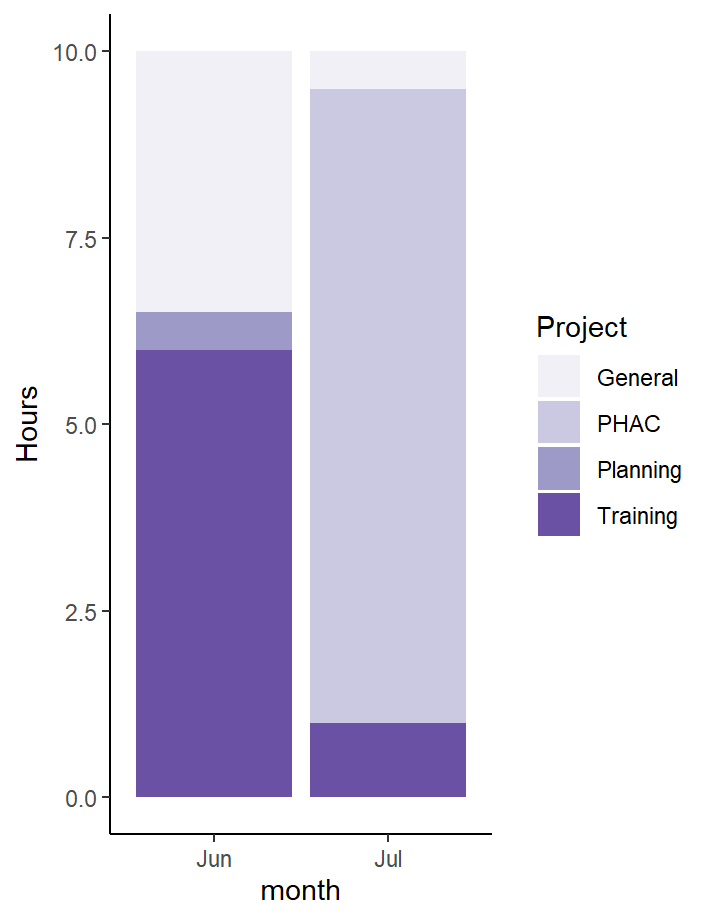
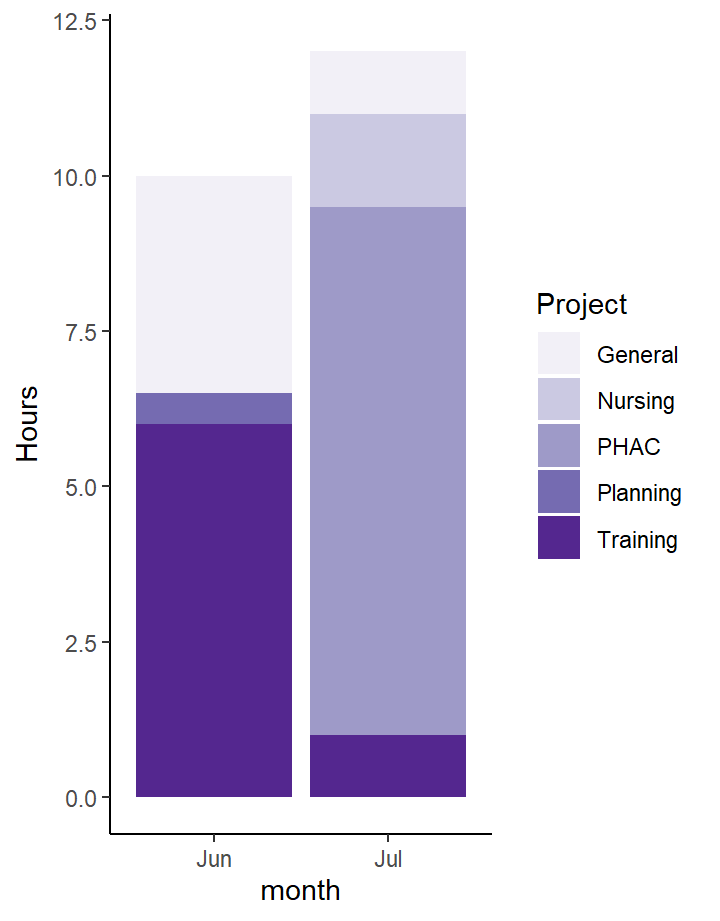
mon

diff --git a/docs/index.html b/docs/index.html
@@ -179,6 +179,7 @@ html, body {
 <img class="mobile-figure" data-mobile-figure-id=fig2 src="index_files/figure-html/unnamed-chunk-2-1.mb.png" />
 <img class="mobile-figure" data-mobile-figure-id=fig3 src="index_files/figure-html/unnamed-chunk-4-1.mb.png" />
 <img class="mobile-figure" data-mobile-figure-id=fig4 src="index_files/figure-html/unnamed-chunk-5-1.mb.png" />
+<img class="mobile-figure" data-mobile-figure-id=fig5 src="index_files/figure-html/unnamed-chunk-6-1.mb.png" />
 <script type="text/javascript">
 
 
@@ -1889,13 +1890,13 @@ class="section level3">
 <div class="knitr-options" data-fig-width="576" data-fig-height="460">
 
 </div>
-<table style="width:100%;">
+<table>
 <colgroup>
-<col width="6%" />
-<col width="6%" />
+<col width="7%" />
+<col width="8%" />
+<col width="5%" />
+<col width="75%" />
 <col width="4%" />
-<col width="79%" />
-<col width="3%" />
 </colgroup>
 <thead>
 <tr class="header">
@@ -1908,43 +1909,20 @@ class="section level3">
 </thead>
 <tbody>
 <tr class="odd">
-<td align="left">2024-07-02</td>
-<td align="left">Tuesday</td>
-<td align="left">Training</td>
-<td align="left">Responsible Conduct of Research - Second half</td>
-<td align="right">1.0</td>
-</tr>
-<tr class="even">
-<td align="left">2024-07-02</td>
-<td align="left">Tuesday</td>
+<td align="left">2024-07-08</td>
+<td align="left">Monday</td>
 <td align="left">General</td>
-<td align="left">Upload Certificates to ReDA, emails</td>
+<td align="left">Improving time tracking to show ALL historical tasks
+listed specifically + Total time on each project category.</td>
 <td align="right">0.5</td>
 </tr>
-<tr class="odd">
-<td align="left">2024-07-03</td>
-<td align="left">Wednesday</td>
-<td align="left">PHAC</td>
-<td align="left">Reading grant, sourcing REB docs, sourcing &amp;
-organizing refs in manager, making notes.</td>
-<td align="right">3.0</td>
-</tr>
 <tr class="even">
-<td align="left">2024-07-05</td>
-<td align="left">Friday</td>
-<td align="left">PHAC</td>
-<td align="left">Reading papers, learning about the CTAS and ICD codes,
-making notes.</td>
-<td align="right">3.0</td>
-</tr>
-<tr class="odd">
-<td align="left">2024-07-05</td>
-<td align="left">Friday</td>
-<td align="left">PHAC</td>
-<td align="left">Reading and assessing field-specific standards for data
-visualizatioin. Work on code based approach to generate APA-formatted
-tables through R.</td>
-<td align="right">2.5</td>
+<td align="left">2024-07-08</td>
+<td align="left">Monday</td>
+<td align="left">Nursing</td>
+<td align="left">Reading WeRPN + Lawson Grant Materials, Finding /
+downloading / organizing WeRPN references.</td>
+<td align="right">1.5</td>
 </tr>
 </tbody>
 </table>
@@ -1964,36 +1942,182 @@ class="section level3">
 </div>
 <p><img src="index_files/figure-html/unnamed-chunk-4-1.png" width="576" data-figure-id=fig3 /></p>
 </div>
-<div id="heatmap-of-hours-worked-across-days-of-established-contract"
+<div id="total-amount-of-time-spent-on-each-project"
 class="section level3">
-<h3>Heatmap of Hours Worked Across Days of Established Contract</h3>
+<h3>Total Amount of Time Spent on Each Project</h3>
 <div class="knitr-options" data-fig-width="576" data-fig-height="460">
 
 </div>
 <p><img src="index_files/figure-html/unnamed-chunk-5-1.png" width="576" data-figure-id=fig4 /></p>
 </div>
 </div>
+<div id="column-2" class="section level2" data-width="350">
+<h2>Column</h2>
+<div id="heatmap-of-hours-worked-across-days-of-established-contract"
+class="section level3">
+<h3>Heatmap of Hours Worked Across Days of Established Contract</h3>
+<div class="knitr-options" data-fig-width="576" data-fig-height="460">
+
+</div>
+<p><img src="index_files/figure-html/unnamed-chunk-6-1.png" width="576" data-figure-id=fig5 /></p>
+</div>
+<div id="all-historical-specific-tasks-hours" class="section level3">
+<h3>All Historical Specific Tasks &amp; Hours</h3>
+<div class="knitr-options" data-fig-width="576" data-fig-height="460">
+
+</div>
+<table>
+<colgroup>
+<col width="6%" />
+<col width="5%" />
+<col width="84%" />
+<col width="3%" />
+</colgroup>
+<thead>
+<tr class="header">
+<th align="left">Date</th>
+<th align="left">Project</th>
+<th align="left">Description</th>
+<th align="right">Hours</th>
+</tr>
+</thead>
+<tbody>
+<tr class="odd">
+<td align="left">2024-07-08</td>
+<td align="left">General</td>
+<td align="left">Improving time tracking to show ALL historical tasks
+listed specifically + Total time on each project category.</td>
+<td align="right">0.5</td>
+</tr>
+<tr class="even">
+<td align="left">2024-07-08</td>
+<td align="left">Nursing</td>
+<td align="left">Reading WeRPN + Lawson Grant Materials, Finding /
+downloading / organizing WeRPN references.</td>
+<td align="right">1.5</td>
+</tr>
+<tr class="odd">
+<td align="left">2024-07-05</td>
+<td align="left">PHAC</td>
+<td align="left">Reading papers, learning about the CTAS and ICD codes,
+making notes.</td>
+<td align="right">3.0</td>
+</tr>
+<tr class="even">
+<td align="left">2024-07-05</td>
+<td align="left">PHAC</td>
+<td align="left">Reading and assessing field-specific standards for data
+visualizatioin. Work on code based approach to generate APA-formatted
+tables through R.</td>
+<td align="right">2.5</td>
+</tr>
+<tr class="odd">
+<td align="left">2024-07-03</td>
+<td align="left">PHAC</td>
+<td align="left">Reading grant, sourcing REB docs, sourcing &amp;
+organizing refs in manager, making notes.</td>
+<td align="right">3.0</td>
+</tr>
+<tr class="even">
+<td align="left">2024-07-02</td>
+<td align="left">Training</td>
+<td align="left">Responsible Conduct of Research - Second half</td>
+<td align="right">1.0</td>
+</tr>
+<tr class="odd">
+<td align="left">2024-07-02</td>
+<td align="left">General</td>
+<td align="left">Upload Certificates to ReDA, emails</td>
+<td align="right">0.5</td>
+</tr>
+<tr class="even">
+<td align="left">2024-06-29</td>
+<td align="left">Training</td>
+<td align="left">Responsible Conduct of Research - First half of
+module</td>
+<td align="right">1.0</td>
+</tr>
+<tr class="odd">
+<td align="left">2024-06-28</td>
+<td align="left">Training</td>
+<td align="left">Canada GCP - Stage 1 - Basic</td>
+<td align="right">2.0</td>
+</tr>
+<tr class="even">
+<td align="left">2024-06-28</td>
+<td align="left">Training</td>
+<td align="left">Health Canada Division 5 - Drugs For Clinical Trials
+Involving Human Subjects</td>
+<td align="right">1.0</td>
+</tr>
+<tr class="odd">
+<td align="left">2024-06-27</td>
+<td align="left">General</td>
+<td align="left">Emails, Setting up OneDrive syncing to PC (2FA
+etc.)</td>
+<td align="right">0.5</td>
+</tr>
+<tr class="even">
+<td align="left">2024-06-26</td>
+<td align="left">Training</td>
+<td align="left">TCPS Modules A1 - A9 (Certificate provided)</td>
+<td align="right">1.0</td>
+</tr>
+<tr class="odd">
+<td align="left">2024-06-25</td>
+<td align="left">General</td>
+<td align="left">Jennet &amp; Amanda - Meeting to touch base</td>
+<td align="right">1.0</td>
+</tr>
+<tr class="even">
+<td align="left">2024-06-25</td>
+<td align="left">General</td>
+<td align="left">Setup wuo Staff Account / HR Setup / Payroll Setup</td>
+<td align="right">1.0</td>
+</tr>
+<tr class="odd">
+<td align="left">2024-06-25</td>
+<td align="left">General</td>
+<td align="left">Build Time Tracking Tool</td>
+<td align="right">1.0</td>
+</tr>
+<tr class="even">
+<td align="left">2024-06-25</td>
+<td align="left">Training</td>
+<td align="left">Lawson SOP training module</td>
+<td align="right">1.0</td>
+</tr>
+<tr class="odd">
+<td align="left">2024-06-25</td>
+<td align="left">Planning</td>
+<td align="left">Writing out meeting notes / plans</td>
+<td align="right">0.5</td>
+</tr>
+</tbody>
+</table>
+</div>
+</div>
 </div>
 <div id="future-important-dates" class="section level1">
 <h1>Future Important Dates</h1>
-<div id="column-2" class="section level2" data-width="500">
+<div id="column-3" class="section level2" data-width="500">
 <h2>Column</h2>
 <div id="june-24-2024---end-of-year-2024" class="section level3">
 <h3>June 24 2024 - End of Year 2024</h3>
 <div class="knitr-options" data-fig-width="576" data-fig-height="460">
 
 </div>
-<p><img src="Calender24.png" width="576" data-figure-id=fig5 /></p>
+<p><img src="Calender24.png" width="576" data-figure-id=fig6 /></p>
 </div>
 </div>
-<div id="column-3" class="section level2" data-width="500">
+<div id="column-4" class="section level2" data-width="500">
 <h2>Column</h2>
 <div id="section" class="section level3">
 <h3>2025</h3>
 <div class="knitr-options" data-fig-width="576" data-fig-height="460">
 
 </div>
-<p><img src="Calender25.png" width="576" data-figure-id=fig5 /></p>
+<p><img src="Calender25.png" width="576" data-figure-id=fig6 /></p>
 </div>
 </div>
 </div>
